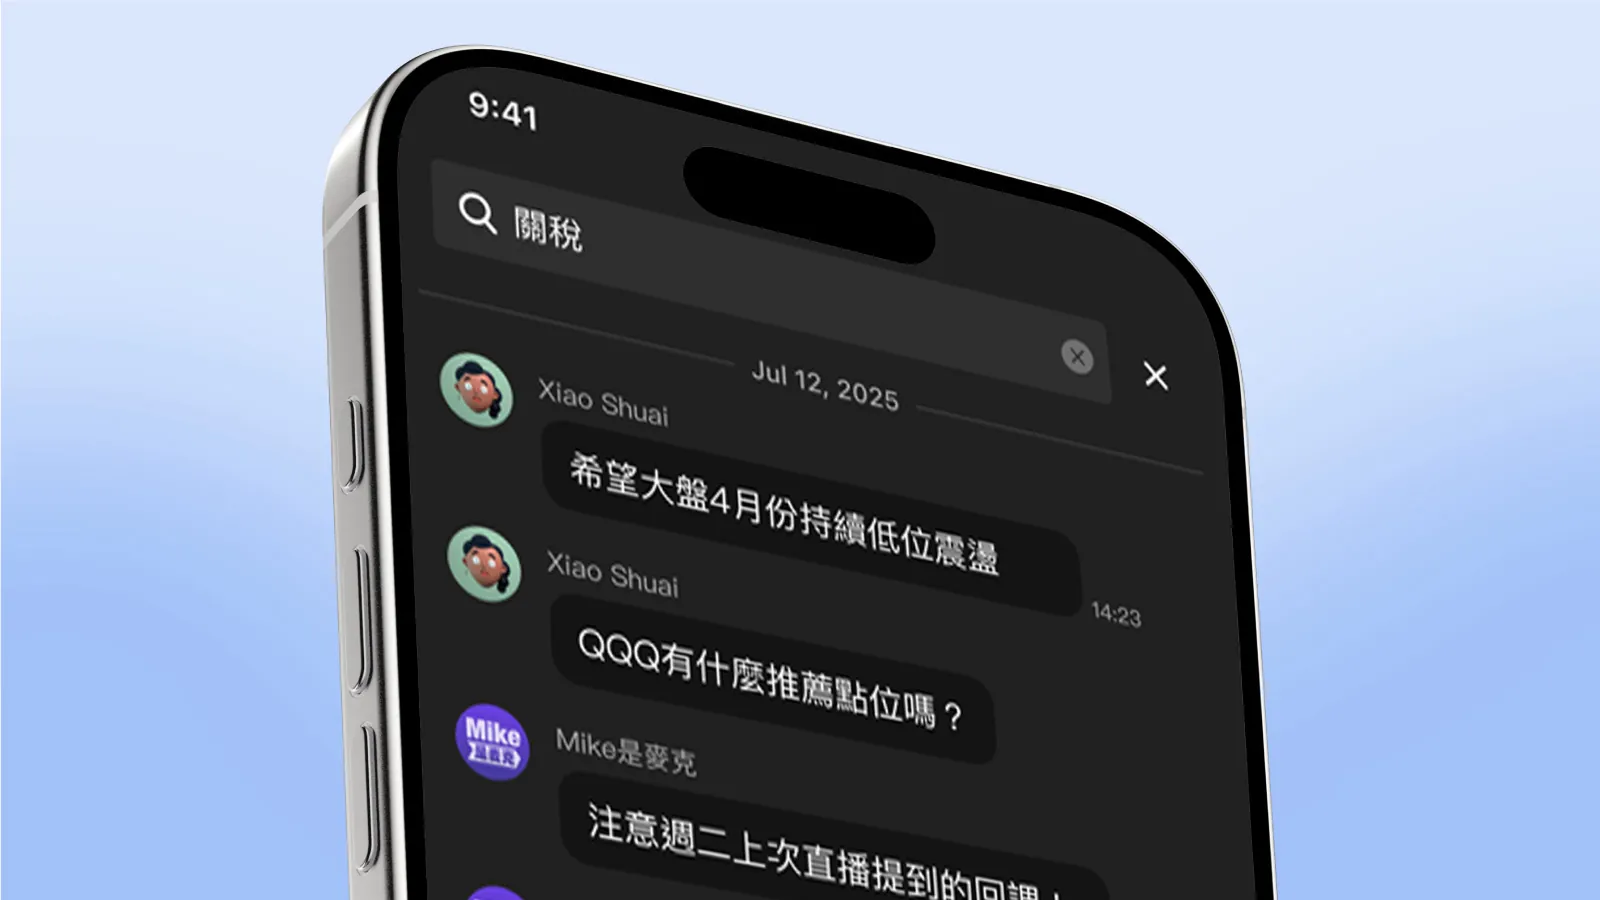
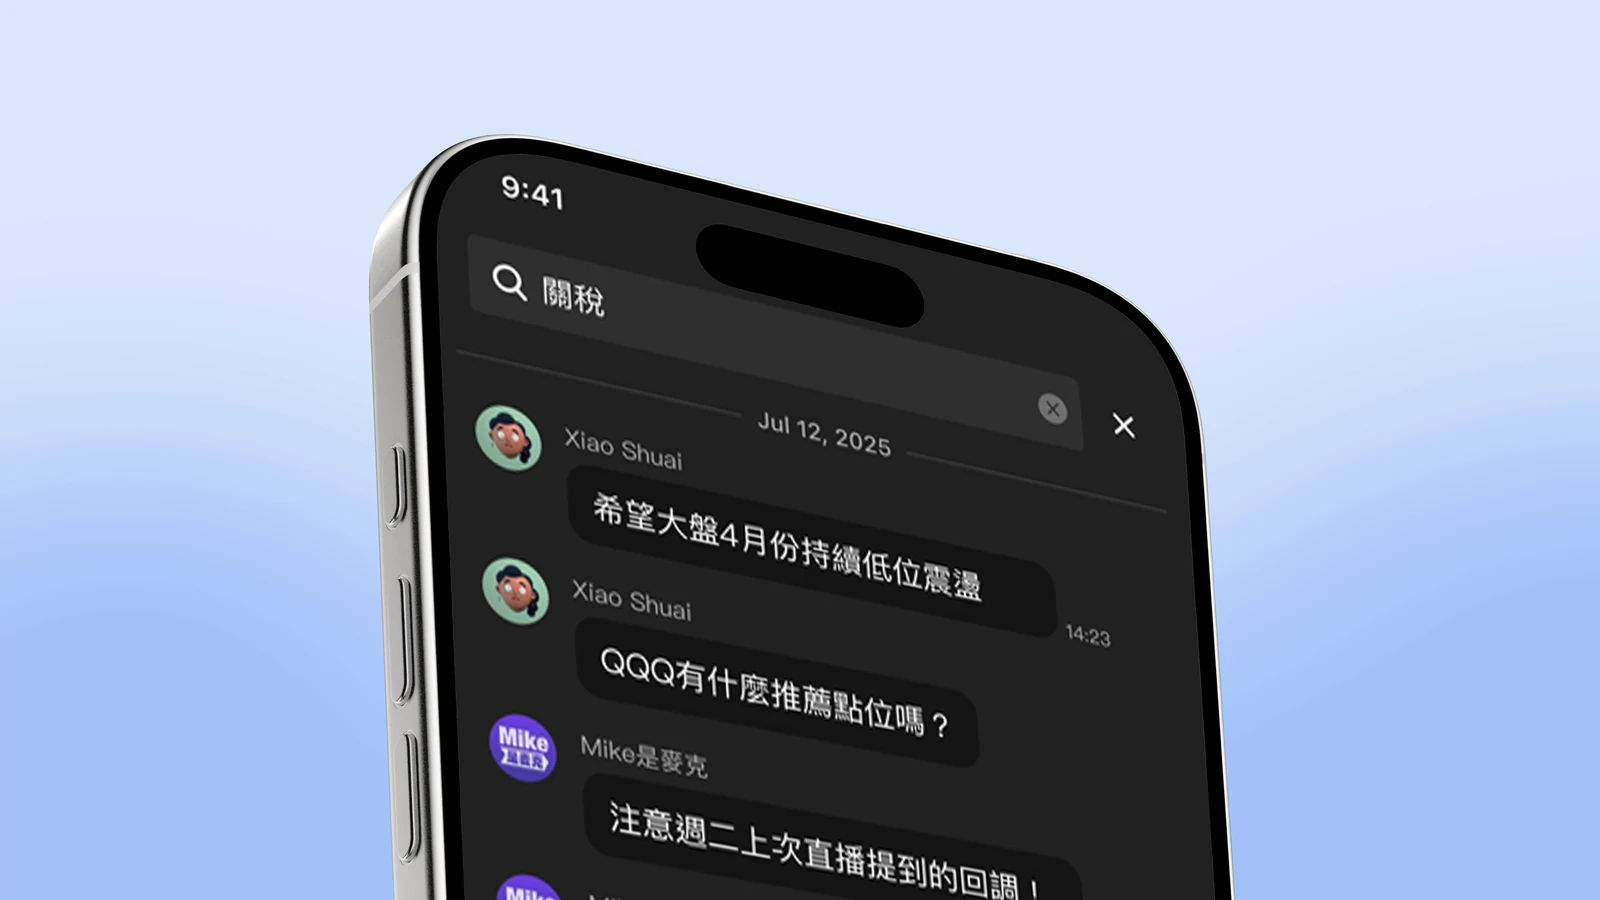
06: high-res cover + card image
Claude-Session: https://claude.ai/code/session_01GjEy689vh6dg91TD7dTNVD

diff --git a/works/work-06-chat.html b/works/work-06-chat.html
@@ -7,7 +7,7 @@
 <meta name="description" content="Jade Shih 作品：APP 聊天室訊息搜尋功能優化，從問題定義到解法設計與規格交付。">
 <link rel="stylesheet" href="../jade-portfolio-ds/tokens.css?v=202611131750">
 <link rel="stylesheet" href="../jade-portfolio-ds/components/bundle.css?v=202611131750">
-<link rel="stylesheet" href="../site.css?v=202611181405">
+<link rel="stylesheet" href="../site.css?v=202611181410">
 </head>
 <body>
 <a class="skip" href="#main">跳到主要內容</a>
@@ -24,7 +24,7 @@
     <span class="jade-sticker cs-hero__st3" data-shape="flower" data-tone="cyan" style="--jade-sticker-rotation:-12deg" aria-hidden="true"><svg class="jade-sticker__shape" viewBox="0 0 128 128" aria-hidden="true"><path d="M125.0,64.0 L124.8,65.6 L124.3,67.2 L123.4,68.7 L122.2,70.1 L120.7,71.5 L119.0,72.7 L117.0,73.8 L114.9,74.8 L112.7,75.7 L110.4,76.4 L108.1,77.1 L105.8,77.6 L103.7,78.1 L101.7,78.5 L99.9,78.9 L98.2,79.2 L96.9,79.7 L95.8,80.2 L94.9,80.8 L94.3,81.5 L94.0,82.4 L93.9,83.4 L94.0,84.6 L94.3,86.0 L94.8,87.6 L95.4,89.4 L96.0,91.3 L96.7,93.4 L97.3,95.6 L97.9,97.9 L98.4,100.3 L98.8,102.7 L99.0,105.0 L99.0,107.2 L98.8,109.4 L98.4,111.3 L97.7,113.1 L96.9,114.6 L95.8,115.9 L94.5,116.8 L93.0,117.5 L91.4,117.8 L89.7,117.8 L87.8,117.5 L85.9,116.8 L83.9,115.9 L82.0,114.8 L80.1,113.5 L78.2,112.0 L76.4,110.4 L74.7,108.7 L73.1,107.0 L71.7,105.4 L70.3,103.9 L69.1,102.5 L67.9,101.3 L66.9,100.3 L65.9,99.6 L64.9,99.1 L64.0,99.0 L63.1,99.1 L62.1,99.6 L61.1,100.3 L60.1,101.3 L58.9,102.5 L57.7,103.9 L56.3,105.4 L54.9,107.0 L53.3,108.7 L51.6,110.4 L49.8,112.0 L47.9,113.5 L46.0,114.8 L44.1,115.9 L42.1,116.8 L40.2,117.5 L38.3,117.8 L36.6,117.8 L35.0,117.5 L33.5,116.8 L32.2,115.9 L31.1,114.6 L30.3,113.1 L29.6,111.3 L29.2,109.4 L29.0,107.2 L29.0,105.0 L29.2,102.7 L29.6,100.3 L30.1,97.9 L30.7,95.6 L31.3,93.4 L32.0,91.3 L32.6,89.4 L33.2,87.6 L33.7,86.0 L34.0,84.6 L34.1,83.4 L34.0,82.4 L33.7,81.5 L33.1,80.8 L32.2,80.2 L31.1,79.7 L29.8,79.2 L28.1,78.9 L26.3,78.5 L24.3,78.1 L22.2,77.6 L19.9,77.1 L17.6,76.4 L15.3,75.7 L13.1,74.8 L11.0,73.8 L9.0,72.7 L7.3,71.5 L5.8,70.1 L4.6,68.7 L3.7,67.2 L3.2,65.6 L3.0,64.0 L3.2,62.4 L3.7,60.8 L4.6,59.3 L5.8,57.9 L7.3,56.5 L9.0,55.3 L11.0,54.2 L13.1,53.2 L15.3,52.3 L17.6,51.6 L19.9,50.9 L22.2,50.4 L24.3,49.9 L26.3,49.5 L28.1,49.1 L29.8,48.8 L31.1,48.3 L32.2,47.8 L33.1,47.2 L33.7,46.5 L34.0,45.6 L34.1,44.6 L34.0,43.4 L33.7,42.0 L33.2,40.4 L32.6,38.6 L32.0,36.7 L31.3,34.6 L30.7,32.4 L30.1,30.1 L29.6,27.7 L29.2,25.3 L29.0,23.0 L29.0,20.8 L29.2,18.6 L29.6,16.7 L30.3,14.9 L31.1,13.4 L32.2,12.1 L33.5,11.2 L35.0,10.5 L36.6,10.2 L38.3,10.2 L40.2,10.5 L42.1,11.2 L44.1,12.1 L46.0,13.2 L47.9,14.5 L49.8,16.0 L51.6,17.6 L53.3,19.3 L54.9,21.0 L56.3,22.6 L57.7,24.1 L58.9,25.5 L60.1,26.7 L61.1,27.7 L62.1,28.4 L63.1,28.9 L64.0,29.0 L64.9,28.9 L65.9,28.4 L66.9,27.7 L67.9,26.7 L69.1,25.5 L70.3,24.1 L71.7,22.6 L73.1,21.0 L74.7,19.3 L76.4,17.6 L78.2,16.0 L80.1,14.5 L82.0,13.2 L83.9,12.1 L85.9,11.2 L87.8,10.5 L89.7,10.2 L91.4,10.2 L93.0,10.5 L94.5,11.2 L95.8,12.1 L96.9,13.4 L97.7,14.9 L98.4,16.7 L98.8,18.6 L99.0,20.8 L99.0,23.0 L98.8,25.3 L98.4,27.7 L97.9,30.1 L97.3,32.4 L96.7,34.6 L96.0,36.7 L95.4,38.6 L94.8,40.4 L94.3,42.0 L94.0,43.4 L93.9,44.6 L94.0,45.6 L94.3,46.5 L94.9,47.2 L95.8,47.8 L96.9,48.3 L98.2,48.8 L99.9,49.1 L101.7,49.5 L103.7,49.9 L105.8,50.4 L108.1,50.9 L110.4,51.6 L112.7,52.3 L114.9,53.2 L117.0,54.2 L119.0,55.3 L120.7,56.5 L122.2,57.9 L123.4,59.3 L124.3,60.8 L124.8,62.4Z"/></svg></span><span class="jade-sticker cs-hero__st2" data-shape="blob" data-tone="pink" style="--jade-sticker-rotation:8deg" aria-hidden="true"><svg class="jade-sticker__shape" viewBox="0 0 128 128" aria-hidden="true"><path d="M121.2,64.0 L121.1,65.5 L121.1,67.0 L120.9,68.5 L120.7,70.0 L120.5,71.4 L120.2,72.9 L119.9,74.4 L119.6,75.8 L119.2,77.2 L118.7,78.7 L118.2,80.1 L117.7,81.5 L117.2,82.8 L116.6,84.2 L116.0,85.5 L115.3,86.9 L114.7,88.2 L113.9,89.5 L113.2,90.7 L112.5,92.0 L111.7,93.2 L110.9,94.4 L110.1,95.7 L109.2,96.8 L108.3,98.0 L107.5,99.2 L106.5,100.3 L105.6,101.5 L104.6,102.6 L103.7,103.7 L102.7,104.7 L101.6,105.8 L100.6,106.8 L99.5,107.9 L98.4,108.9 L97.3,109.8 L96.2,110.8 L95.0,111.7 L93.8,112.6 L92.6,113.5 L91.3,114.4 L90.1,115.2 L88.8,116.0 L87.5,116.7 L86.1,117.4 L84.8,118.1 L83.4,118.7 L82.0,119.3 L80.5,119.9 L79.1,120.4 L77.6,120.8 L76.2,121.2 L74.7,121.6 L73.2,121.8 L71.6,122.1 L70.1,122.3 L68.6,122.4 L67.1,122.4 L65.5,122.4 L64.0,122.4 L62.5,122.2 L61.0,122.1 L59.4,121.8 L58.0,121.5 L56.5,121.1 L55.0,120.7 L53.6,120.2 L52.2,119.7 L50.8,119.1 L49.4,118.5 L48.1,117.8 L46.8,117.1 L45.5,116.3 L44.3,115.4 L43.0,114.6 L41.9,113.7 L40.8,112.7 L39.7,111.8 L38.6,110.8 L37.6,109.8 L36.6,108.7 L35.7,107.6 L34.7,106.6 L33.9,105.5 L33.0,104.4 L32.2,103.3 L31.4,102.1 L30.7,101.0 L30.0,99.9 L29.2,98.8 L28.6,97.6 L27.9,96.5 L27.3,95.4 L26.6,94.3 L26.0,93.2 L25.4,92.0 L24.8,90.9 L24.2,89.8 L23.6,88.7 L23.0,87.7 L22.4,86.6 L21.9,85.5 L21.3,84.4 L20.7,83.3 L20.1,82.2 L19.5,81.1 L18.9,80.0 L18.3,78.9 L17.7,77.7 L17.1,76.6 L16.5,75.4 L15.8,74.2 L15.2,73.0 L14.6,71.8 L14.0,70.6 L13.4,69.3 L12.8,68.0 L12.3,66.7 L11.7,65.4 L11.2,64.0 L10.6,62.6 L10.2,61.2 L9.7,59.7 L9.3,58.2 L8.9,56.7 L8.5,55.2 L8.2,53.7 L8.0,52.1 L7.8,50.5 L7.6,48.9 L7.5,47.3 L7.5,45.6 L7.5,44.0 L7.6,42.4 L7.8,40.7 L8.0,39.1 L8.4,37.5 L8.7,35.8 L9.2,34.2 L9.7,32.7 L10.3,31.1 L11.0,29.6 L11.7,28.1 L12.5,26.6 L13.4,25.2 L14.4,23.8 L15.4,22.5 L16.5,21.2 L17.6,20.0 L18.8,18.8 L20.1,17.7 L21.4,16.7 L22.7,15.7 L24.1,14.8 L25.6,13.9 L27.1,13.2 L28.6,12.4 L30.1,11.8 L31.7,11.2 L33.3,10.7 L34.9,10.3 L36.5,10.0 L38.1,9.7 L39.7,9.4 L41.3,9.3 L42.9,9.2 L44.6,9.1 L46.2,9.1 L47.8,9.2 L49.3,9.3 L50.9,9.4 L52.4,9.6 L54.0,9.9 L55.5,10.1 L57.0,10.5 L58.4,10.8 L59.8,11.1 L61.3,11.5 L62.6,11.9 L64.0,12.4 L65.3,12.8 L66.7,13.3 L68.0,13.7 L69.2,14.2 L70.5,14.7 L71.7,15.1 L73.0,15.6 L74.2,16.1 L75.4,16.6 L76.6,17.1 L77.8,17.5 L78.9,18.0 L80.1,18.5 L81.3,19.0 L82.4,19.5 L83.6,20.0 L84.8,20.5 L85.9,21.0 L87.1,21.5 L88.3,22.0 L89.4,22.5 L90.6,23.1 L91.8,23.6 L92.9,24.2 L94.1,24.8 L95.3,25.4 L96.5,26.0 L97.6,26.7 L98.8,27.3 L100.0,28.0 L101.1,28.8 L102.3,29.6 L103.4,30.4 L104.5,31.2 L105.6,32.1 L106.7,33.0 L107.8,33.9 L108.8,34.9 L109.8,35.9 L110.8,37.0 L111.7,38.1 L112.7,39.2 L113.5,40.4 L114.4,41.6 L115.2,42.8 L115.9,44.1 L116.6,45.4 L117.3,46.7 L117.9,48.0 L118.5,49.4 L119.0,50.8 L119.5,52.2 L119.9,53.6 L120.2,55.1 L120.5,56.6 L120.7,58.0 L120.9,59.5 L121.1,61.0 L121.1,62.5Z"/></svg></span>
     <ul class="cs-tags"><li>UI/UX</li><li>YouTuber Mike是麥克</li><li>功能優化</li></ul>
     <h1 class="cs-title">Chat Search<span>聊天室搜尋功能優化</span></h1>
-    <div class="cs-cover" data-tone="pink"><span class="jade-sticker cs-hero__st" data-shape="burst" data-tone="lime" style="--jade-sticker-rotation:-10deg" aria-hidden="true"><svg class="jade-sticker__shape" viewBox="0 0 128 128"><polygon points="64.0,2.0 73.2,17.9 87.7,6.7 90.1,24.9 107.8,20.2 103.1,37.9 121.3,40.3 110.1,54.8 126.0,64.0 110.1,73.2 121.3,87.7 103.1,90.1 107.8,107.8 90.1,103.1 87.7,121.3 73.2,110.1 64.0,126.0 54.8,110.1 40.3,121.3 37.9,103.1 20.2,107.8 24.9,90.1 6.7,87.7 17.9,73.2 2.0,64.0 17.9,54.8 6.7,40.3 24.9,37.9 20.2,20.2 37.9,24.9 40.3,6.7 54.8,17.9"/></svg><span class="jade-sticker__label"><b>06</b>Case</span></span><picture><source srcset="../public/works/work-06-chat.webp" type="image/webp"><img src="../public/works/work-06-chat.jpg" width="1600" height="900" style="aspect-ratio:1600/900" alt="聊天室搜尋功能畫面" decoding="async" fetchpriority="high"></picture></div>
+    <div class="cs-cover" data-tone="pink"><span class="jade-sticker cs-hero__st" data-shape="burst" data-tone="lime" style="--jade-sticker-rotation:-10deg" aria-hidden="true"><svg class="jade-sticker__shape" viewBox="0 0 128 128"><polygon points="64.0,2.0 73.2,17.9 87.7,6.7 90.1,24.9 107.8,20.2 103.1,37.9 121.3,40.3 110.1,54.8 126.0,64.0 110.1,73.2 121.3,87.7 103.1,90.1 107.8,107.8 90.1,103.1 87.7,121.3 73.2,110.1 64.0,126.0 54.8,110.1 40.3,121.3 37.9,103.1 20.2,107.8 24.9,90.1 6.7,87.7 17.9,73.2 2.0,64.0 17.9,54.8 6.7,40.3 24.9,37.9 20.2,20.2 37.9,24.9 40.3,6.7 54.8,17.9"/></svg><span class="jade-sticker__label"><b>06</b>Case</span></span><picture><source srcset="../public/works/work-06-chat-hero.webp?v=1118m" type="image/webp"><img src="../public/works/work-06-chat-hero.jpg?v=1118m" width="2400" height="1713" style="aspect-ratio:2400/1713" alt="聊天室搜尋功能畫面" decoding="async" fetchpriority="high"></picture></div>
   </div>
 </header>
 
@@ -77,6 +77,6 @@
 
 <div class="ycur" id="ycur" aria-hidden="true"><svg viewBox="0 0 40 40"><path d="M5 3 L34 18 L20 21 L13 34 Z"/></svg><span class="ycur__tag">YOU</span></div>
 
-<script src="../site.js?v=202611181405"></script>
+<script src="../site.js?v=202611181410"></script>
 </body>
 </html>

diff --git a/works.html b/works.html
@@ -40,7 +40,7 @@
       <a class="jade-project-card wk-card" data-cat="package" href="works/work-03-package.html" data-tone="cyan"><div class="jade-project-card__head"><span class="jade-project-card__index">03</span><span class="jade-project-card__rule" aria-hidden="true"></span><span class="jade-project-card__label">艾沛膚</span><span class="jade-project-card__icon" aria-hidden="true"><svg viewBox="0 0 24 24" fill="none" stroke="currentColor" stroke-width="2.2" stroke-linecap="round" stroke-linejoin="round"><path d="M7 17 17 7M8 7h9v9"/></svg></span></div><div class="jade-project-card__media"><img src="public/works/work-03-package.webp?v=1116" width="1600" height="900" alt="Elpis 艾沛膚系列洗髮與保養產品包裝" loading="lazy" decoding="async"></div><div class="jade-project-card__body"><h3 class="jade-project-card__title">系列產品包裝</h3><p class="jade-project-card__tags">包裝設計</p></div></a>
       <a class="jade-project-card wk-card" data-cat="personal" data-href="works/work-04-drawing.html" aria-disabled="true" data-tone="pink"><div class="jade-project-card__head"><span class="jade-project-card__index">04</span><span class="jade-project-card__rule" aria-hidden="true"></span><span class="jade-project-card__label">PERSONAL PROJECT</span><span class="jade-project-card__icon" aria-hidden="true"><svg viewBox="0 0 24 24" fill="none" stroke="currentColor" stroke-width="2.2" stroke-linecap="round" stroke-linejoin="round"><path d="M7 17 17 7M8 7h9v9"/></svg></span></div><div class="jade-project-card__media"><img src="public/works/work-04-drawing.webp" width="1600" height="900" alt="30 Day Drawing 素描本，人物鉛筆速寫" loading="lazy" decoding="async"></div><div class="jade-project-card__body"><h3 class="jade-project-card__title">30日繪畫計畫</h3><p class="jade-project-card__tags">插畫創作 · 風格探索 · 每日練習</p></div></a>
       <a class="jade-project-card wk-card" data-cat="uiux" href="works/work-05-kolapp.html" data-tone="lime"><div class="jade-project-card__head"><span class="jade-project-card__index">05</span><span class="jade-project-card__rule" aria-hidden="true"></span><span class="jade-project-card__label">YouTuber Better Leaf 好葉</span><span class="jade-project-card__icon" aria-hidden="true"><svg viewBox="0 0 24 24" fill="none" stroke="currentColor" stroke-width="2.2" stroke-linecap="round" stroke-linejoin="round"><path d="M7 17 17 7M8 7h9v9"/></svg></span></div><div class="jade-project-card__media"><img src="public/works/work-05-kolapp.webp?v=1116d" width="1600" height="900" alt="好葉智能選股 App 啟動畫面" loading="lazy" decoding="async"></div><div class="jade-project-card__body"><h3 class="jade-project-card__title">好葉智能選股APP</h3><p class="jade-project-card__tags">APP主視覺規劃</p></div></a>
-      <a class="jade-project-card wk-card" data-cat="uiux" href="works/work-06-chat.html" data-tone="lavender"><div class="jade-project-card__head"><span class="jade-project-card__index">06</span><span class="jade-project-card__rule" aria-hidden="true"></span><span class="jade-project-card__label">YouTuber Mike是麥克</span><span class="jade-project-card__icon" aria-hidden="true"><svg viewBox="0 0 24 24" fill="none" stroke="currentColor" stroke-width="2.2" stroke-linecap="round" stroke-linejoin="round"><path d="M7 17 17 7M8 7h9v9"/></svg></span></div><div class="jade-project-card__media"><img src="public/works/work-06-chat.webp" width="1600" height="900" alt="App 聊天室關鍵字搜尋畫面" loading="lazy" decoding="async"></div><div class="jade-project-card__body"><h3 class="jade-project-card__title">APP功能優化</h3><p class="jade-project-card__tags">聊天室關鍵字搜尋</p></div></a>
+      <a class="jade-project-card wk-card" data-cat="uiux" href="works/work-06-chat.html" data-tone="lavender"><div class="jade-project-card__head"><span class="jade-project-card__index">06</span><span class="jade-project-card__rule" aria-hidden="true"></span><span class="jade-project-card__label">YouTuber Mike是麥克</span><span class="jade-project-card__icon" aria-hidden="true"><svg viewBox="0 0 24 24" fill="none" stroke="currentColor" stroke-width="2.2" stroke-linecap="round" stroke-linejoin="round"><path d="M7 17 17 7M8 7h9v9"/></svg></span></div><div class="jade-project-card__media"><img src="public/works/work-06-chat.webp?v=1118m" width="1600" height="900" alt="App 聊天室關鍵字搜尋畫面" loading="lazy" decoding="async"></div><div class="jade-project-card__body"><h3 class="jade-project-card__title">APP功能優化</h3><p class="jade-project-card__tags">聊天室關鍵字搜尋</p></div></a>
     </div>
     <div class="wk-cta">
       <p class="wk-cta__text">有類似的專案想聊聊嗎？</p>

diff --git a/index.html b/index.html
@@ -130,7 +130,7 @@
       <a class="jade-project-card" href="works/work-03-package.html" data-tone="cyan"><div class="jade-project-card__head"><span class="jade-project-card__index">03</span><span class="jade-project-card__rule" aria-hidden="true"></span><span class="jade-project-card__label">艾沛膚</span></div><div class="jade-project-card__media"><img src="public/works/work-03-package.webp?v=1116" width="1600" height="900" alt="Elpis 艾沛膚系列洗髮與保養產品包裝" loading="lazy" decoding="async"></div><div class="jade-project-card__body"><h3 class="jade-project-card__title">系列產品包裝</h3><p class="jade-project-card__tags">包裝設計</p></div></a>
       <article class="jade-project-card" data-tone="pink"><div class="jade-project-card__head"><span class="jade-project-card__index">04</span><span class="jade-project-card__rule" aria-hidden="true"></span><span class="jade-project-card__label">PERSONAL PROJECT</span></div><div class="jade-project-card__media"><img src="public/works/work-04-drawing.webp" width="1600" height="900" alt="30 Day Drawing 素描本，人物鉛筆速寫" loading="lazy" decoding="async"></div><div class="jade-project-card__body"><h3 class="jade-project-card__title">30日繪畫計畫</h3><p class="jade-project-card__tags">插畫創作 · 風格探索 · 每日練習</p></div></article>
       <a class="jade-project-card" href="works/work-05-kolapp.html" data-tone="lime"><div class="jade-project-card__head"><span class="jade-project-card__index">05</span><span class="jade-project-card__rule" aria-hidden="true"></span><span class="jade-project-card__label">YouTuber Better Leaf 好葉</span></div><div class="jade-project-card__media"><img src="public/works/work-05-kolapp.webp?v=1116d" width="1600" height="900" alt="好葉智能選股 App 啟動畫面" loading="lazy" decoding="async"></div><div class="jade-project-card__body"><h3 class="jade-project-card__title">好葉智能選股APP</h3><p class="jade-project-card__tags">APP主視覺規劃</p></div></a>
-      <a class="jade-project-card" href="works/work-06-chat.html" data-tone="lavender"><div class="jade-project-card__head"><span class="jade-project-card__index">06</span><span class="jade-project-card__rule" aria-hidden="true"></span><span class="jade-project-card__label">YouTuber Mike是麥克</span></div><div class="jade-project-card__media"><img src="public/works/work-06-chat.webp" width="1600" height="900" alt="App 聊天室關鍵字搜尋畫面" loading="lazy" decoding="async"></div><div class="jade-project-card__body"><h3 class="jade-project-card__title">APP功能優化</h3><p class="jade-project-card__tags">聊天室關鍵字搜尋</p></div></a>
+      <a class="jade-project-card" href="works/work-06-chat.html" data-tone="lavender"><div class="jade-project-card__head"><span class="jade-project-card__index">06</span><span class="jade-project-card__rule" aria-hidden="true"></span><span class="jade-project-card__label">YouTuber Mike是麥克</span></div><div class="jade-project-card__media"><img src="public/works/work-06-chat.webp?v=1118m" width="1600" height="900" alt="App 聊天室關鍵字搜尋畫面" loading="lazy" decoding="async"></div><div class="jade-project-card__body"><h3 class="jade-project-card__title">APP功能優化</h3><p class="jade-project-card__tags">聊天室關鍵字搜尋</p></div></a>
     </div>
     <div class="work-more">
       <a class="jade-primary-button" href="works.html"><span>View all works</span><span class="jade-primary-button__icon" aria-hidden="true"><svg viewBox="0 0 24 24" fill="none" stroke="currentColor" stroke-width="2.2" stroke-linecap="round" stroke-linejoin="round"><path d="M7 17 17 7M8 7h9v9"/></svg></span></a>

diff --git a/tools/case_data.py b/tools/case_data.py
@@ -64,7 +64,7 @@ CASES={
   title_en='Chat Search',title_zh='聊天室搜尋功能優化',
   desc='Jade Shih 作品：APP 聊天室訊息搜尋功能優化，從問題定義到解法設計與規格交付。',
   tags=['UI/UX','YouTuber Mike是麥克','功能優化'],tagline='',
-  cover='work-06-chat',cover_w=1600,cover_h=900,cover_alt='聊天室搜尋功能畫面',
+  cover='work-06-chat-hero',cover_w=2400,cover_h=1713,cover_alt='聊天室搜尋功能畫面',
   meta=[('Client','YouTuber Mike是麥克'),('Role','UI/UX 設計・功能規劃'),('Deliverables','聊天室訊息搜尋・UI Spec'),('Year','2026')],
   overview='<p>APP 聊天室是用戶與作者交流投資觀點的主要場所。隨著訊息量快速累積，用戶需要一個能快速找回重要訊息的方式。</p><p>本專案從用戶痛點出發，規劃聊天室內的訊息全文搜尋，從搜尋、結果摘要到跳回原訊息檢視，並撰寫完整的 UI 狀態與規格交付工程。</p>',
   cards=[],gallery_style='none',gallery=[],extra=case_extra.chat(),
